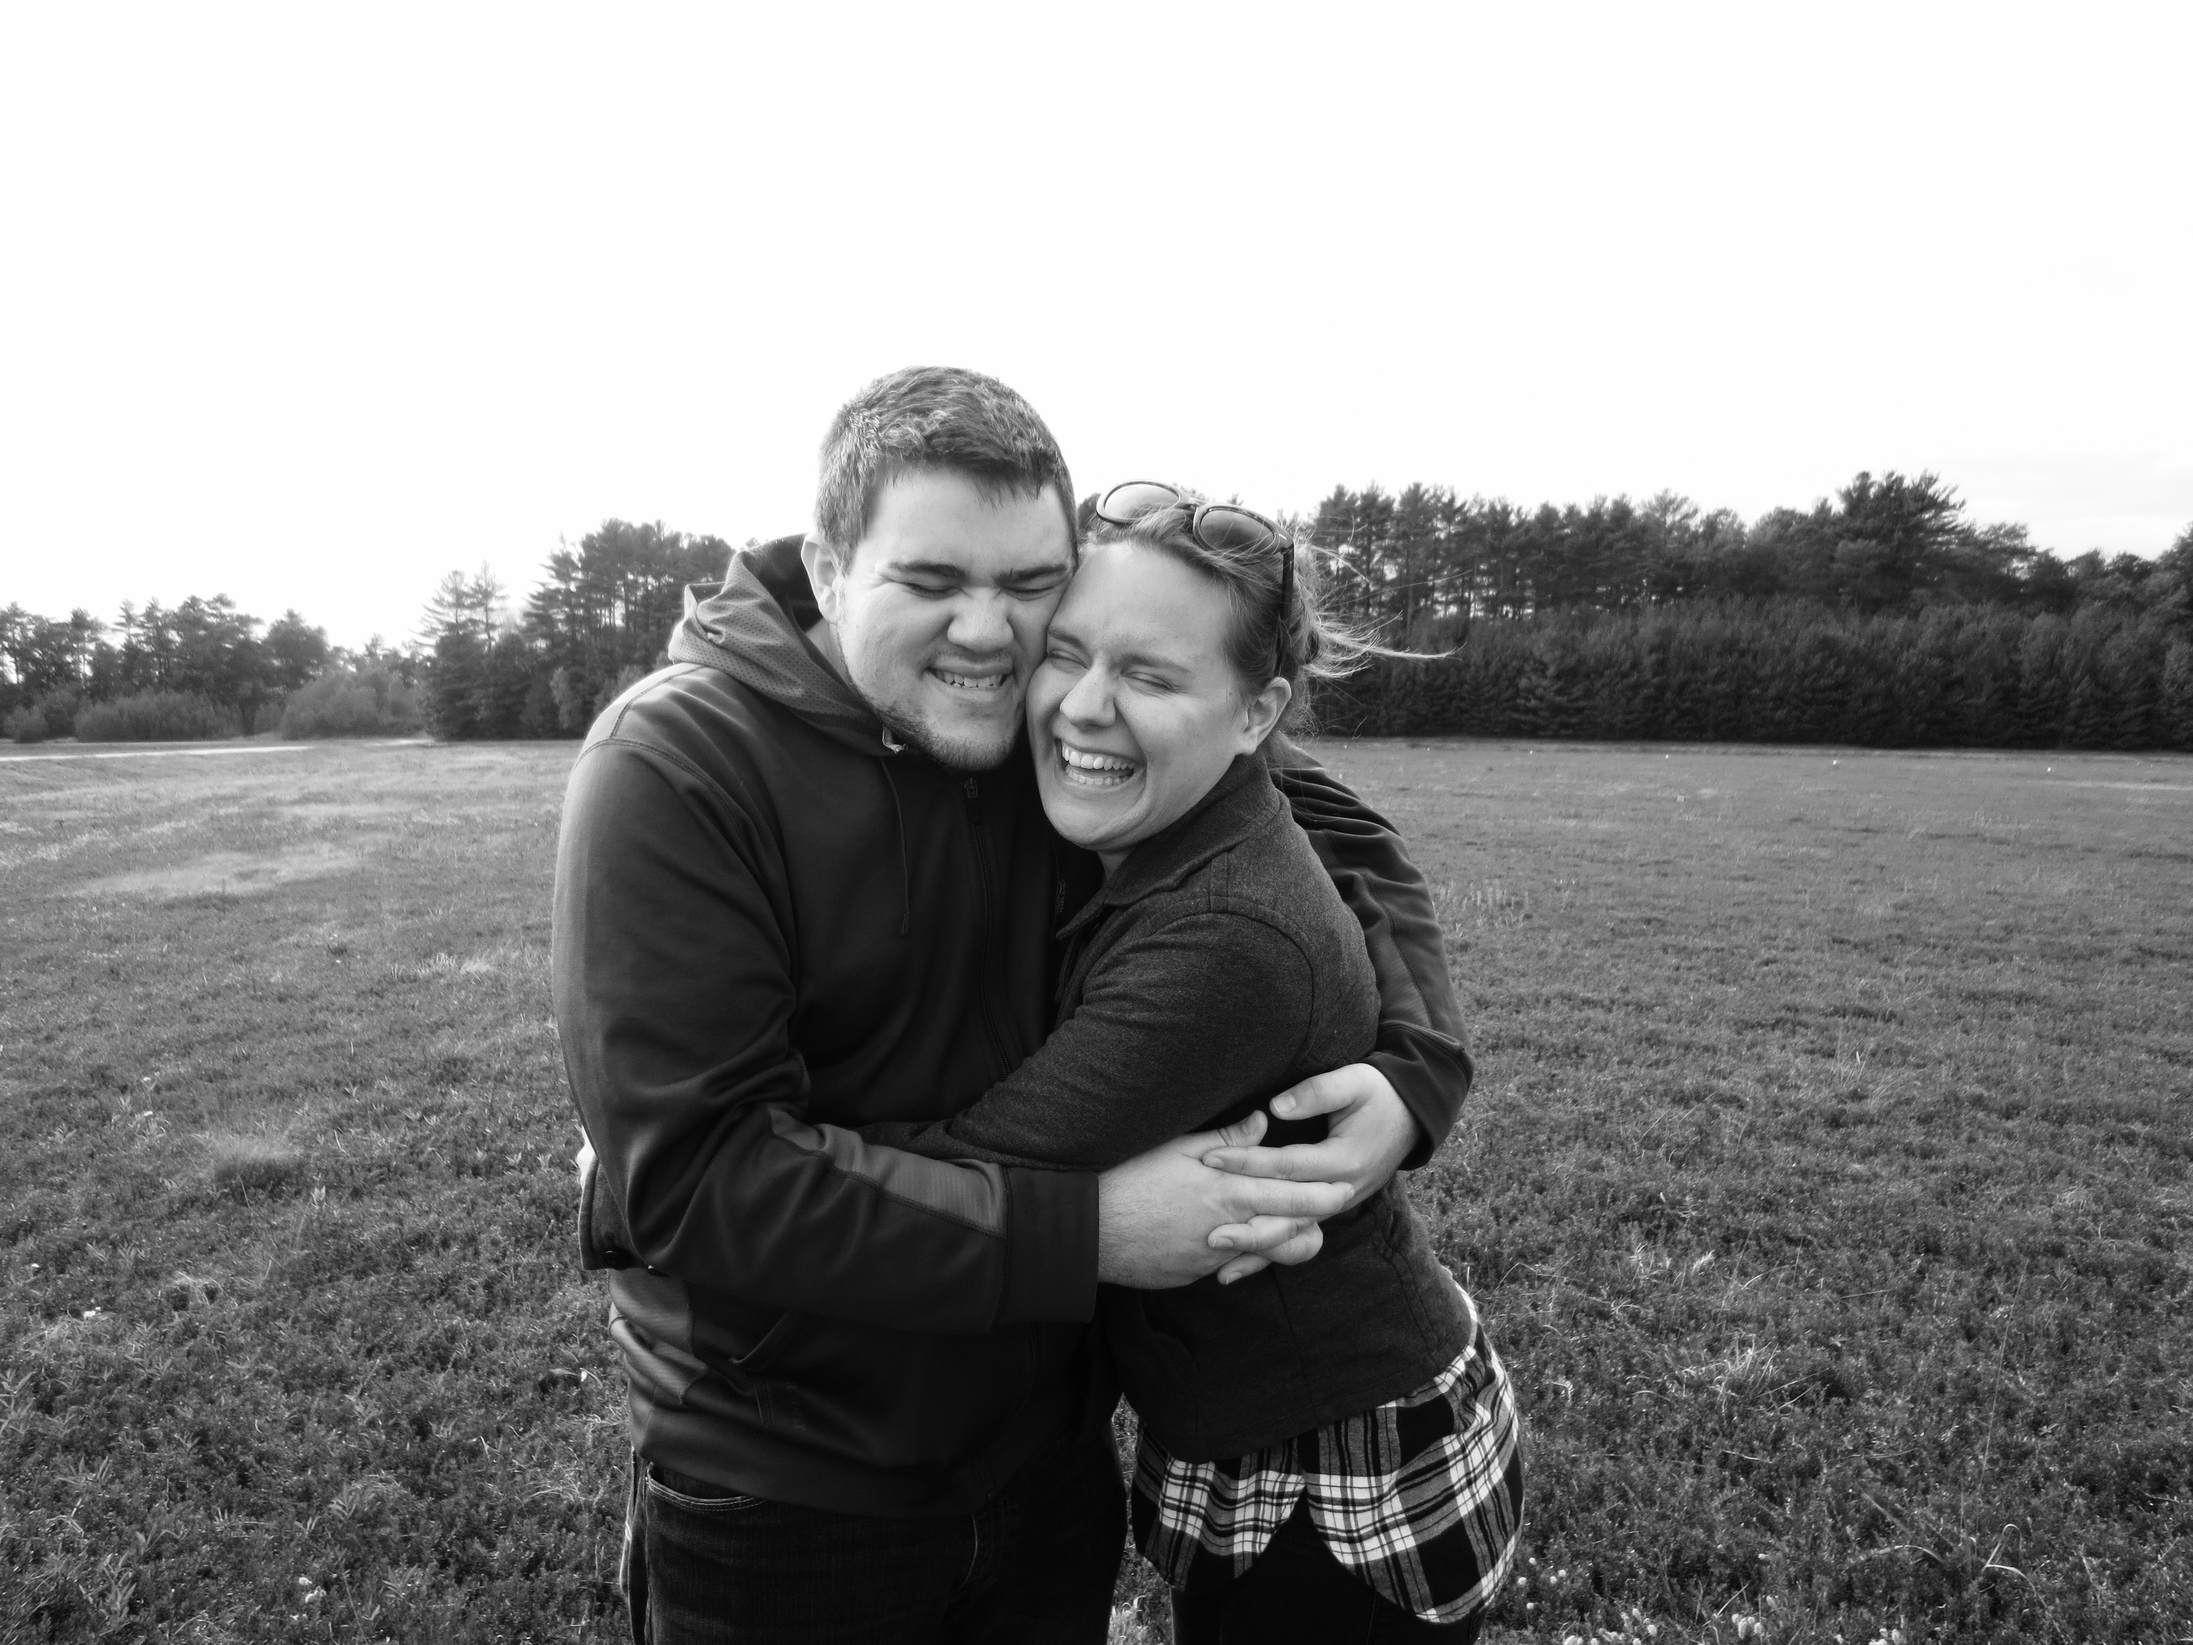
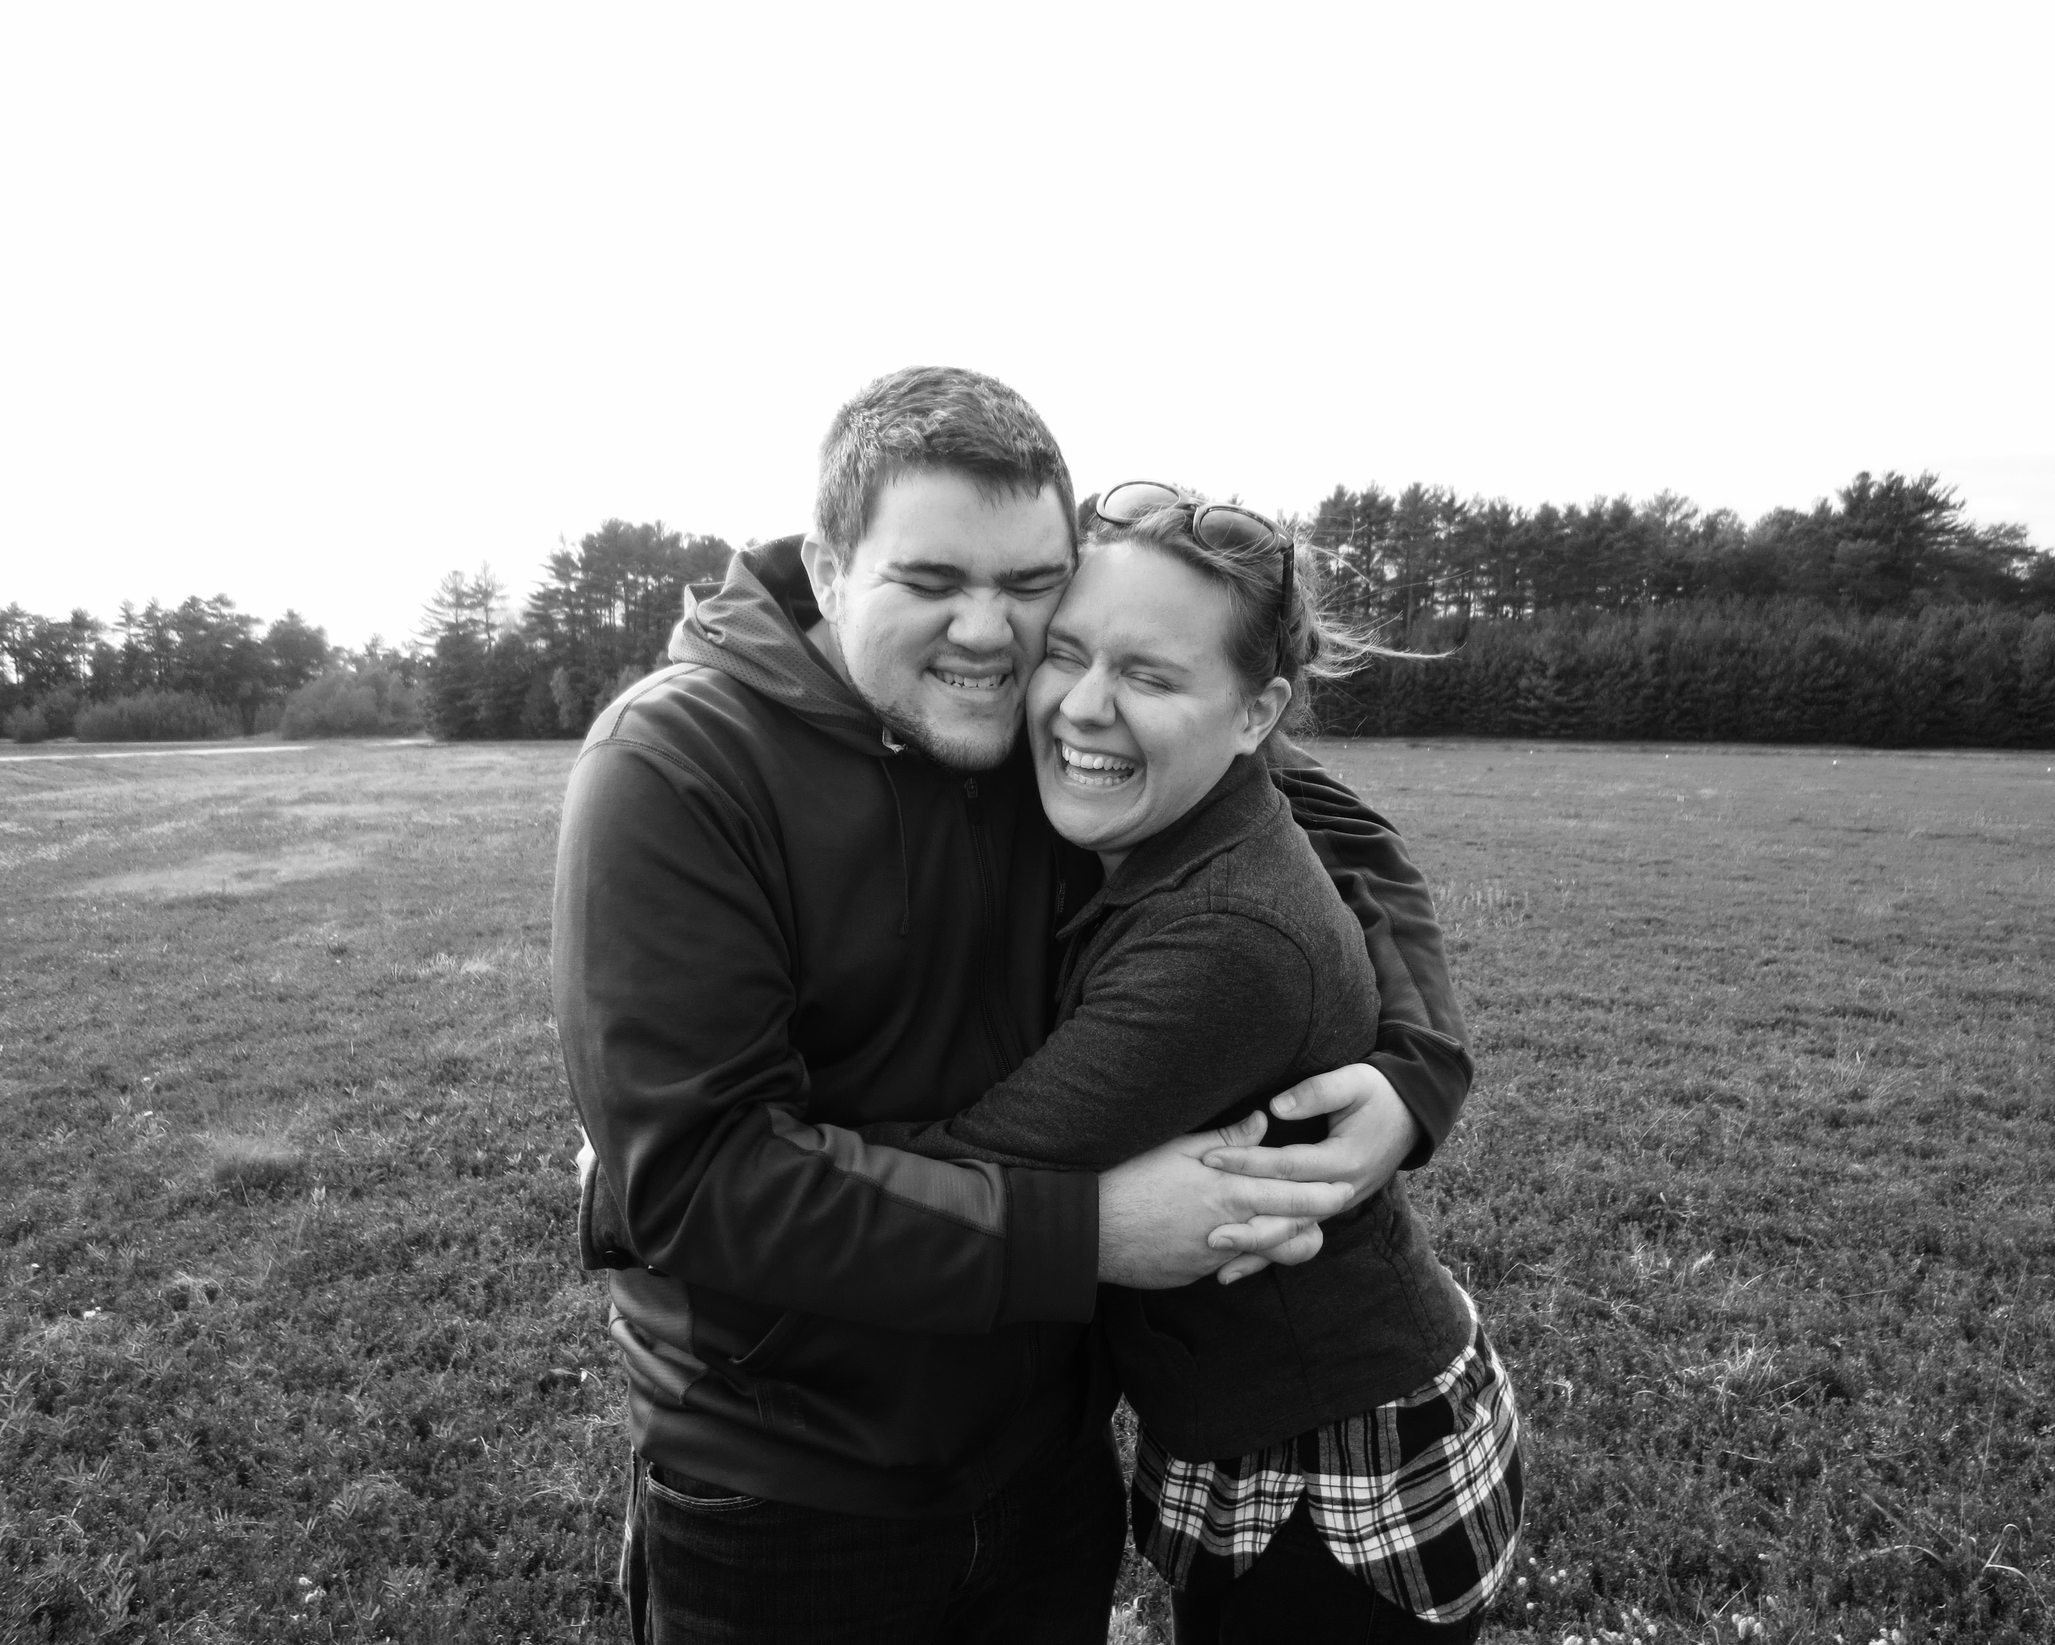
smaller imag

Changed region(s): [[0.0, 0.2188, 1.0, 1.0], [0.8069, 0.4375, 0.9, 0.4688]]

diff --git a/src/index.html b/src/index.html
@@ -11,8 +11,6 @@
 				<a href="#" class="brand-logo">#JAMJAM2017</a>
 				<ul id="nav-mobile" class="right hide-on-med-and-down">
 					<li><a href="index.html">HOME</a></li>
-					<!-- <li><a href="about.html">J + J</a></li>
-					<li><a href="registry.html">REGISTRY</a></li> -->
 				</ul>
 			</div>
 		</nav>
@@ -23,7 +21,7 @@
 				<div>OUR WEDDING</div>
 				<div class="smaller">in West Bridgewater, Massachusetts</div>
 			</div>
-			<img class="splash" align="middle" src="./assets/home_page_crop.jpg"></img>
+			<img class="splash" align="middle" src="./assets/home_page.jpg"></img>
 		</div>
 
 		<script src='./lib/jquery.min.js'></script>
